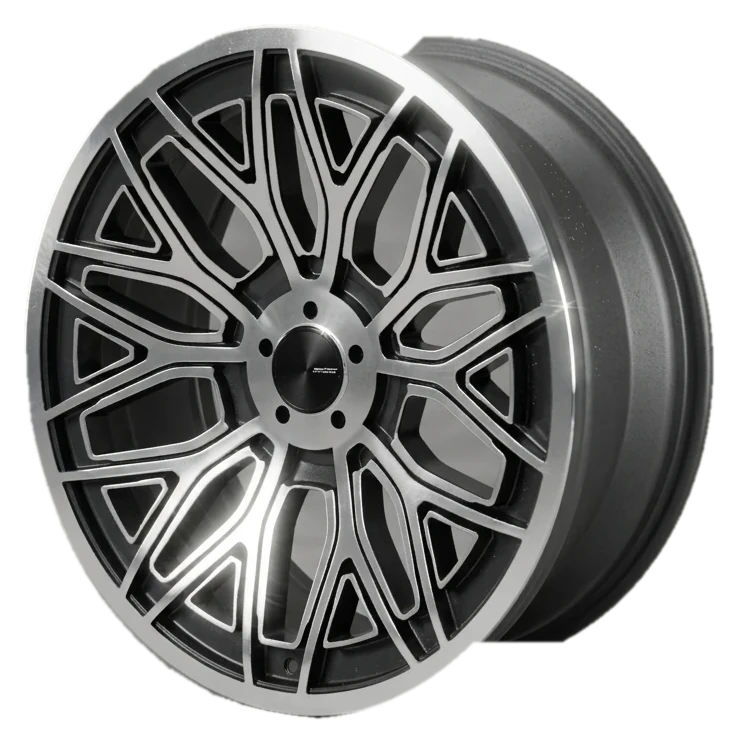
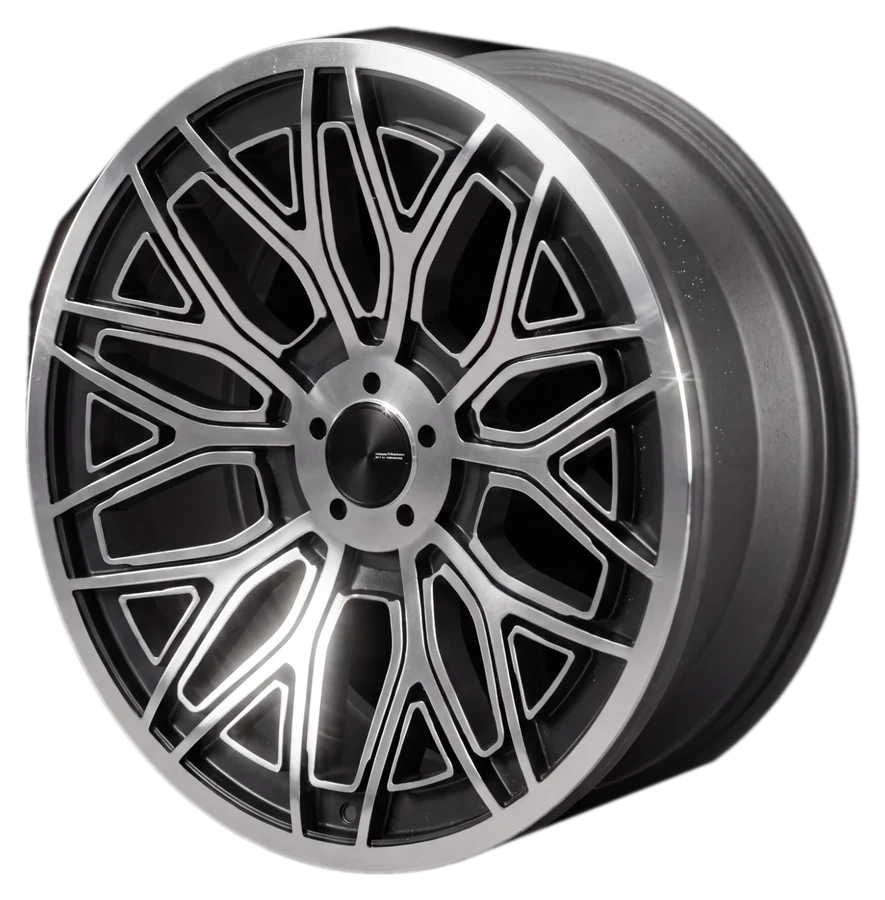
Use new hero wheel image with transparent background

diff --git a/index.html b/index.html
@@ -48,10 +48,10 @@
         <div class="wheelbox">
           <img
             id="hero-roda"
-            alt="Roda grafite com aro polido, vista em três quartos"
+            alt="Roda grafite com aro polido e face diamantada, vista em três quartos"
             src="assets/img/roda-hero.webp"
-            width="739"
-            height="744"
+            width="885"
+            height="900"
           />
         </div>
       </div>
